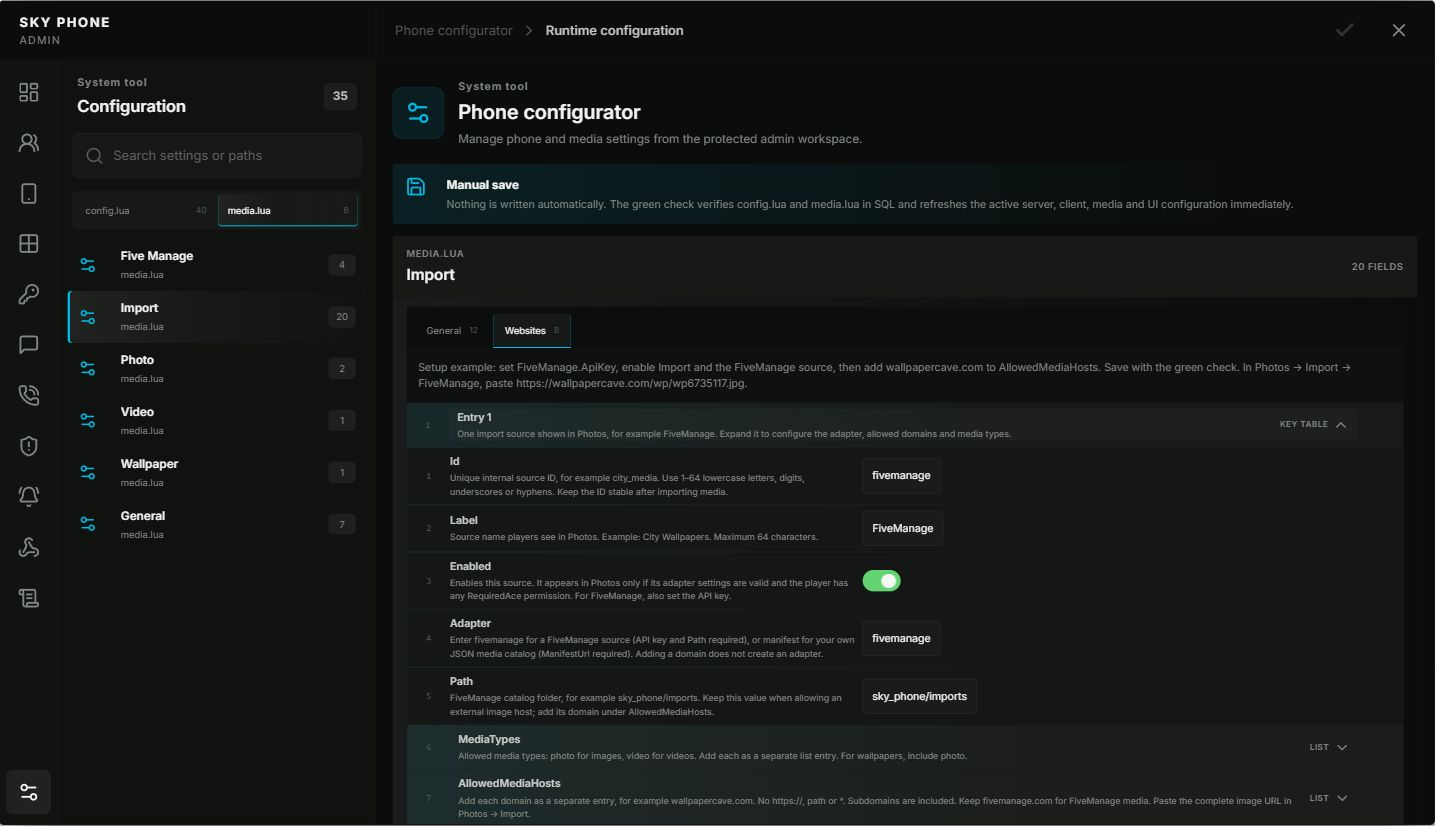
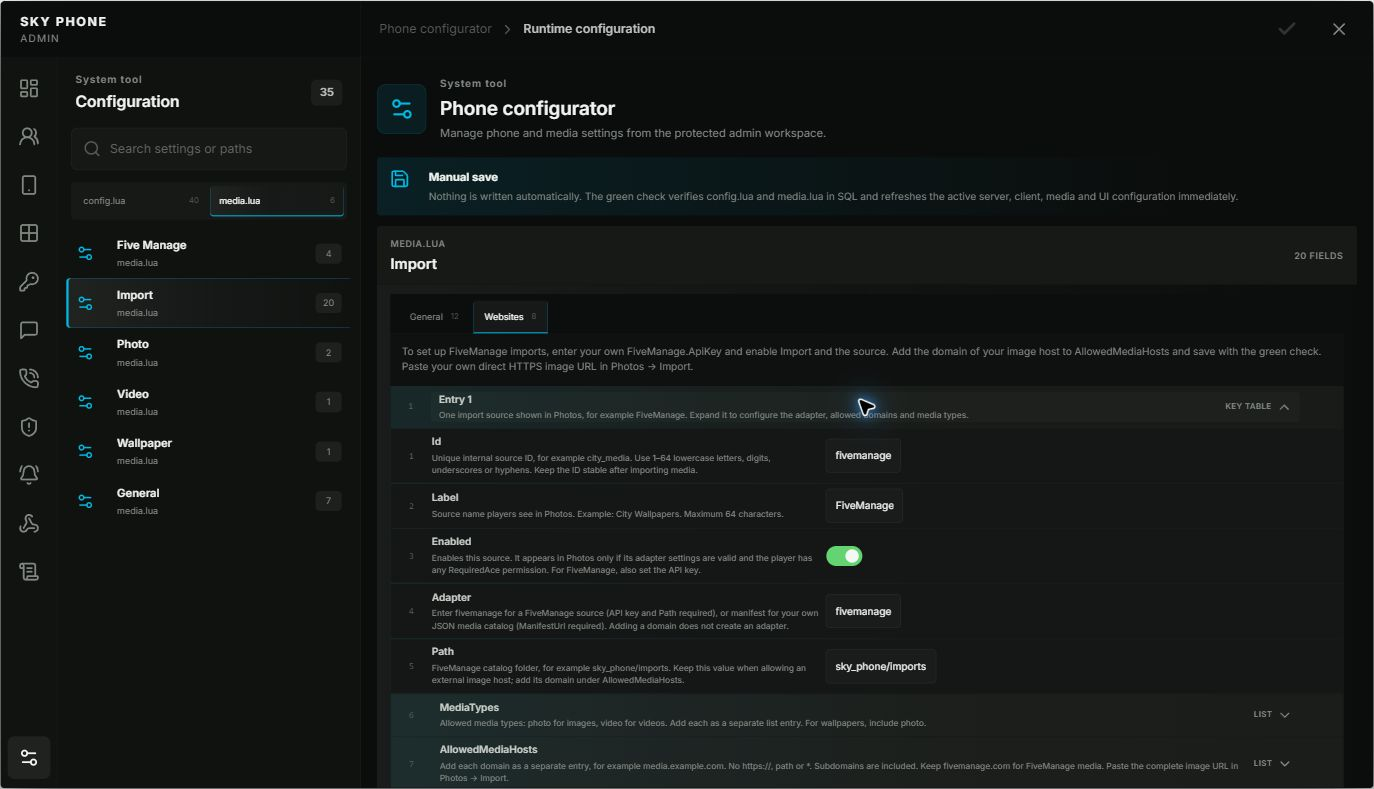
DOC - use neutral media import examples in every locale

diff --git a/frontend/src/stores/phone.ts b/frontend/src/stores/phone.ts
@@ -1129,7 +1129,7 @@ const adminPanelFallbackLocales = {
       importEnabled:
         'Allows imports of external HTTPS images and videos in Photos. The import button appears only when at least one enabled, valid source under Websites is accessible to the player.',
       importWebsites:
-        'Setup example: set FiveManage.ApiKey, enable Import and the FiveManage source, then add wallpapercave.com to AllowedMediaHosts. Save with the green check. In Photos → Import → FiveManage, paste https://wallpapercave.com/wp/wp6735117.jpg.',
+        'To set up FiveManage imports, enter your own FiveManage.ApiKey and enable Import and the source. Add the domain of your image host to AllowedMediaHosts and save with the green check. Paste your own direct HTTPS image URL in Photos → Import.',
       importSource:
         'One import source shown in Photos, for example FiveManage. Expand it to configure the adapter, allowed domains and media types.',
       importSourceId:
@@ -1147,7 +1147,7 @@ const adminPanelFallbackLocales = {
       importMediaTypes:
         'Allowed media types: photo for images, video for videos. Add each as a separate list entry. For wallpapers, include photo.',
       importHosts:
-        'Add each domain as a separate entry, for example wallpapercave.com. No https://, path or *. Subdomains are included. Keep fivemanage.com for FiveManage media. Paste the complete image URL in Photos → Import.',
+        'Add each domain as a separate entry, for example media.example.com. No https://, path or *. Subdomains are included. Keep fivemanage.com for FiveManage media. Paste the complete image URL in Photos → Import.',
       importManifestUrl:
         'HTTPS URL of your own JSON media catalog, for example https://media.example.com/sky-phone/media.json. Requires version: 1 and items with id, filename, type, mimeType, size and url. This field is not for a JPG link.',
       importRequiredAce:
